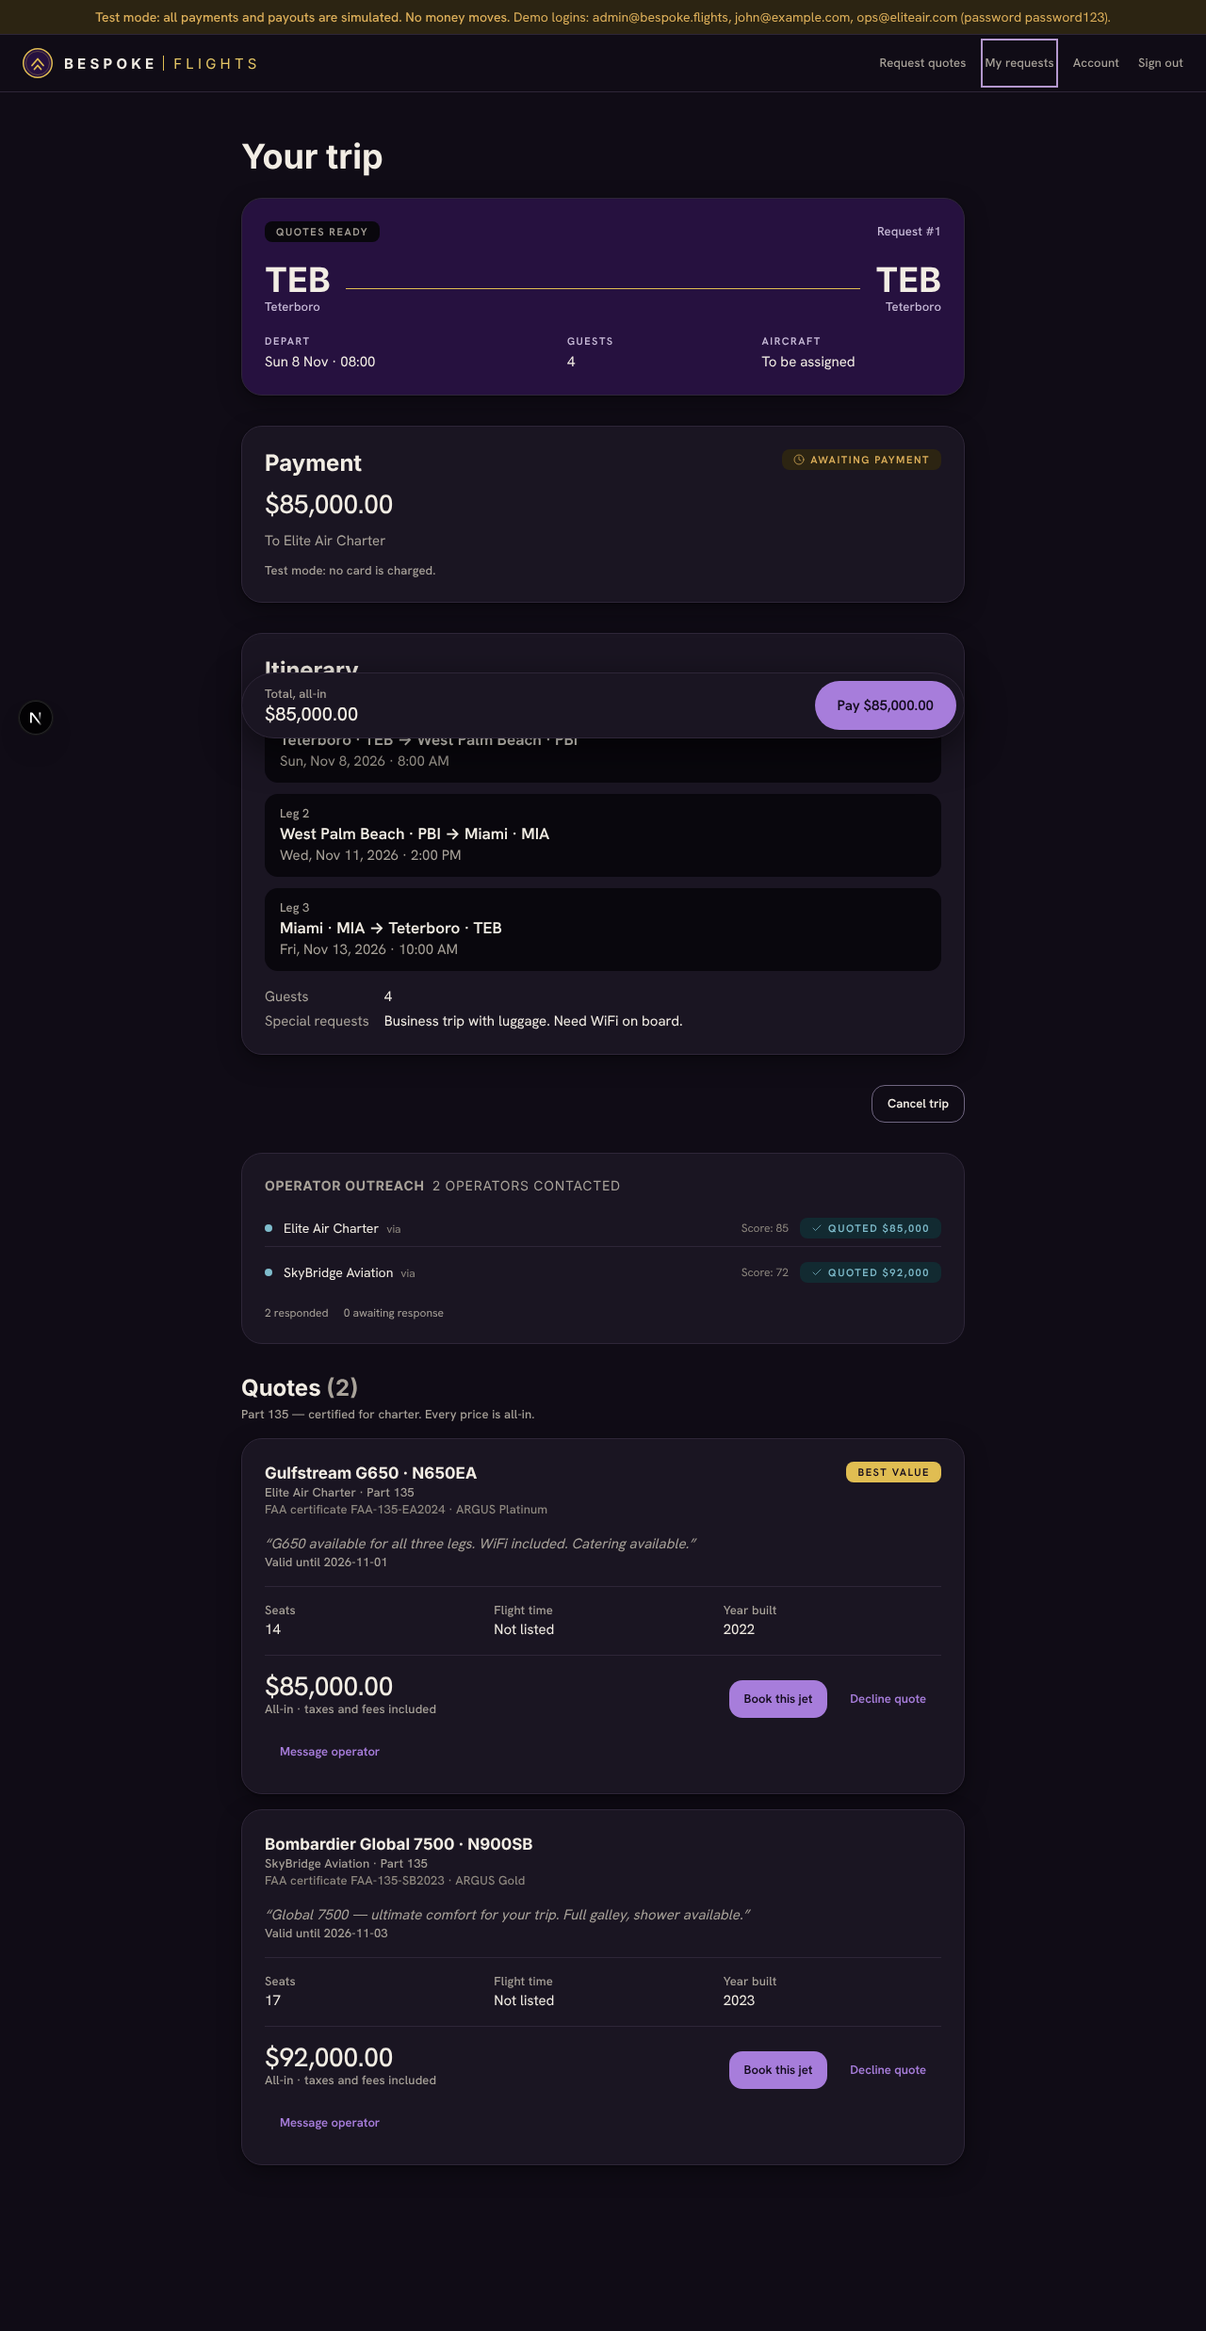
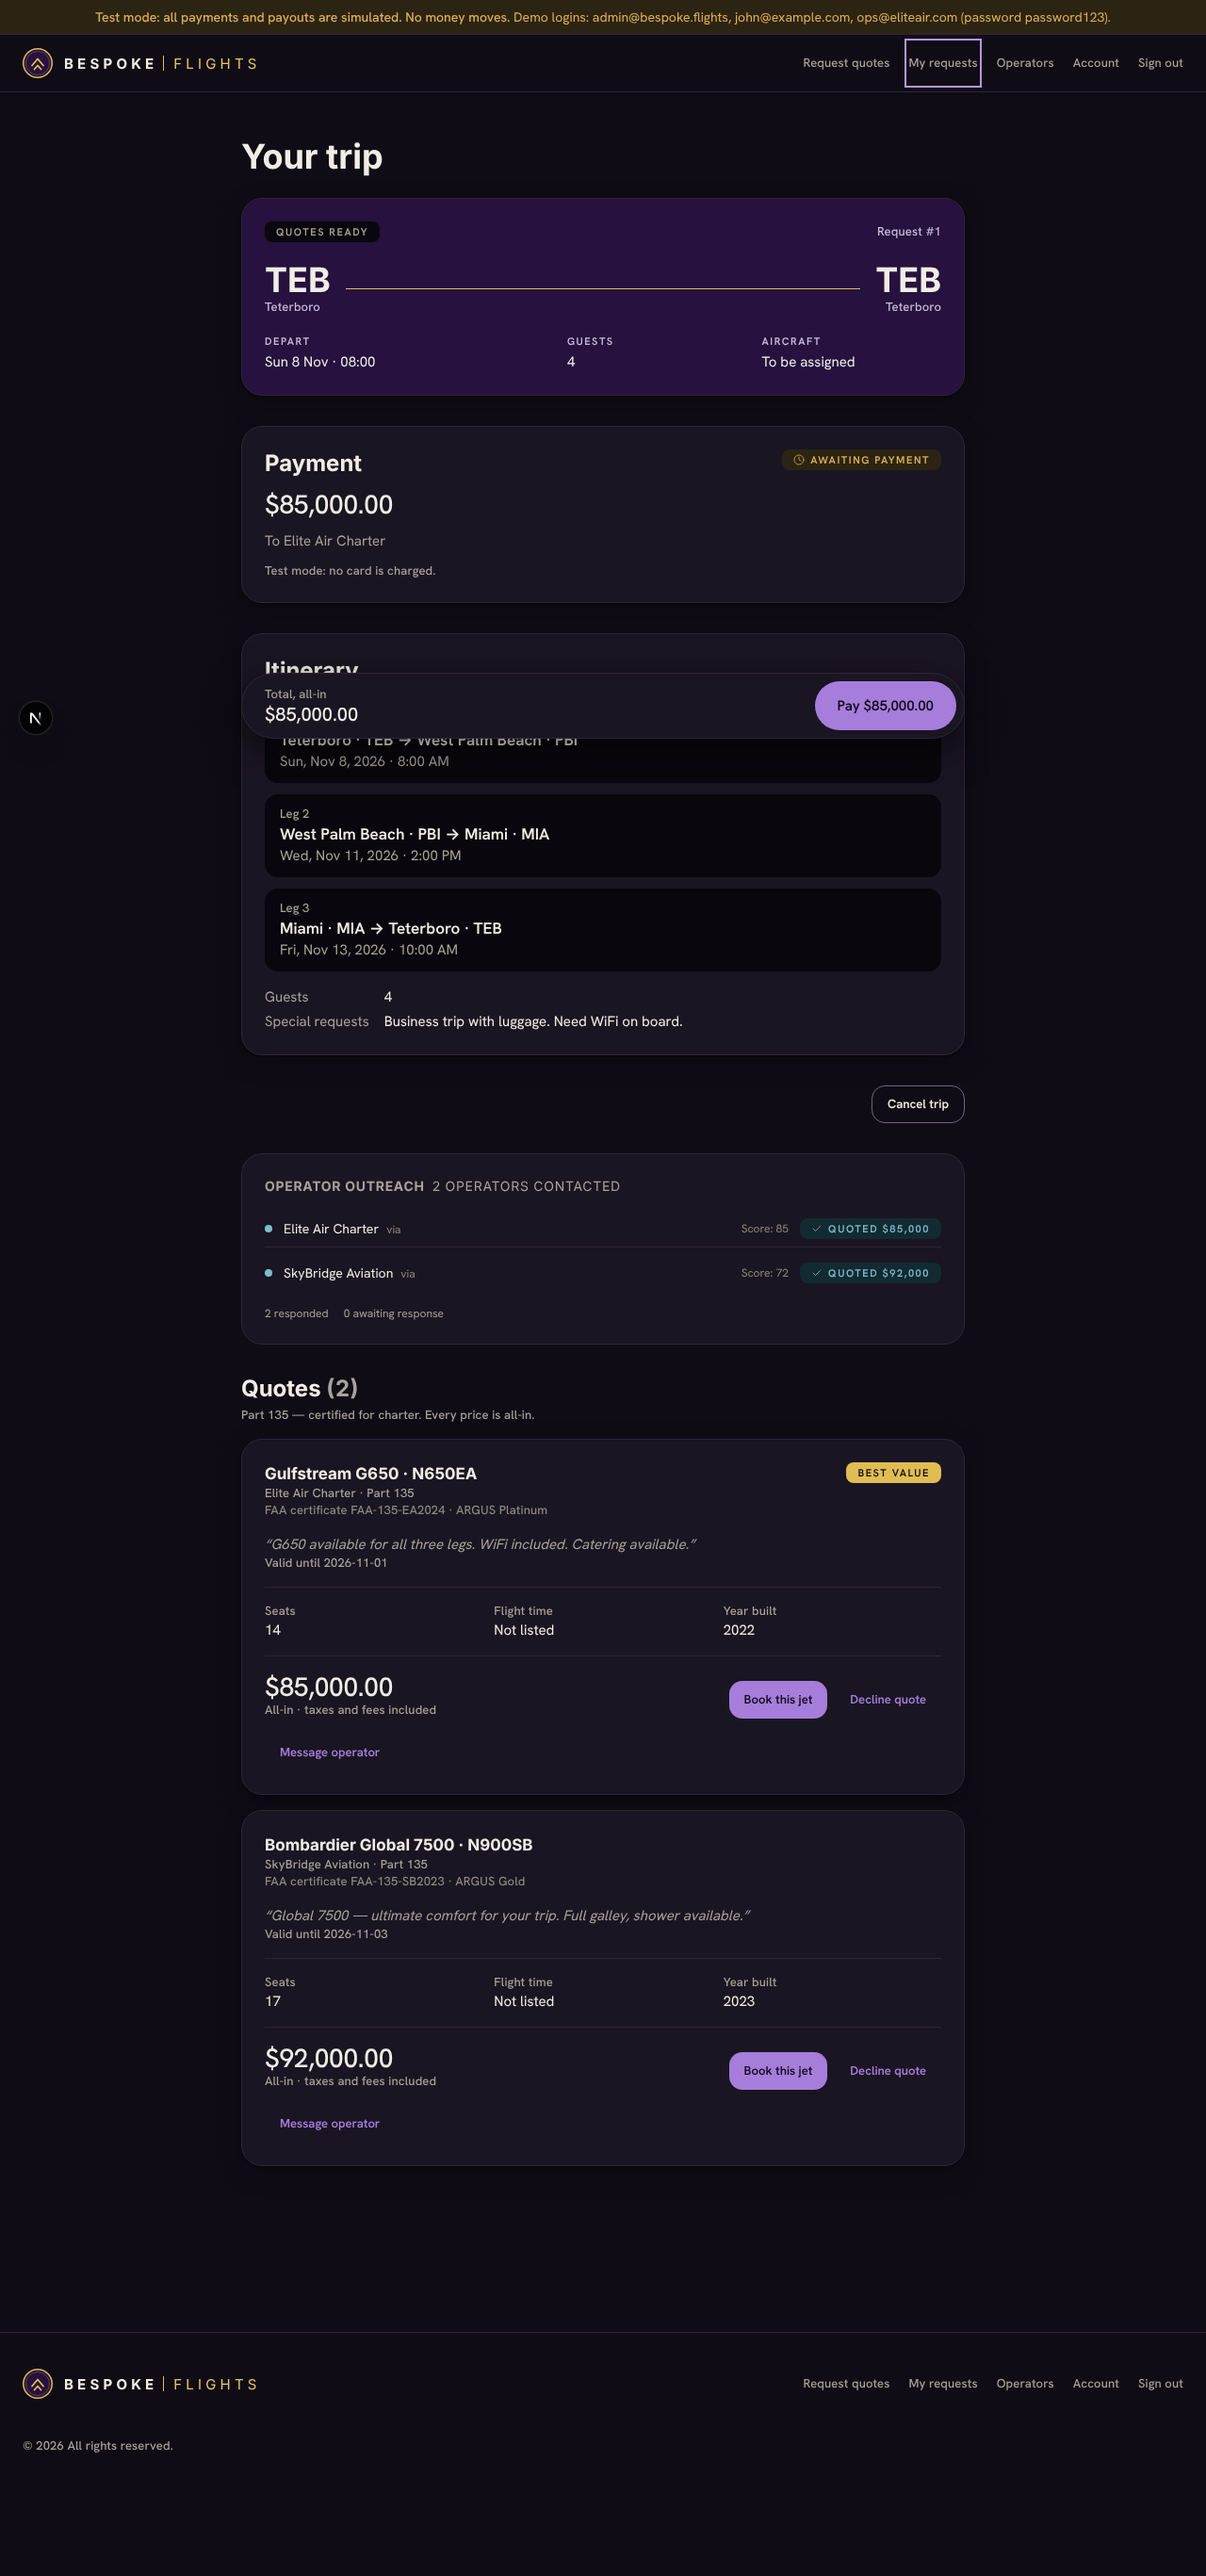
Operators in the nav, nav repeated in a site-wide footer, For operators section removed
- SiteNav is shared by the header and a new Footer (logo, same links,
  copyright) on the home page and every app layout. Distinct landmark
  labels (Main, Footer) and ids (main-nav, footer-nav).
- Guests and travelers get an Operators link to operator sign-up; the
  For operators section on the home page is gone.
- The footer keeps clear of the fixed payment bar on the trip page.

Claude-Session: https://claude.ai/code/session_01NBnVCVm2h7hekYMdk9f3C3

diff --git a/src/components/layout/header.tsx b/src/components/layout/header.tsx
@@ -5,17 +5,24 @@ import { useRouter } from 'next/navigation';
 import { ButtonLink } from '@/components/ui/button';
 import { Logo } from '@/components/ui/logo';
 
+type NavUser = { name: string; role: string } | null | undefined;
+
 const navLink =
   'inline-flex min-h-11 items-center text-label text-ink-muted transition-colors duration-200 ease-out hover:text-ink';
+
+/** Where operators learn about the platform and sign up. */
+const OPERATORS_LINK = { href: '/register?role=operator', label: 'Operators' };
 
 const links = {
   guest: [
     { href: '/book', label: 'Request quotes' },
+    OPERATORS_LINK,
     { href: '/login', label: 'Sign in' },
   ],
   customer: [
     { href: '/book', label: 'Request quotes' },
     { href: '/requests', label: 'My requests' },
+    OPERATORS_LINK,
   ],
   operator: [
     { href: '/operator/board', label: 'Board' },
@@ -36,7 +43,8 @@ const links = {
   ],
 } as const;
 
-export function Header({ user }: { user?: { name: string; role: string } | null }) {
+/** The site navigation. Rendered in the header and repeated in the footer. */
+export function SiteNav({ user, id, label }: { user: NavUser; id: string; label: string }) {
   const router = useRouter();
 
   const handleLogout = async () => {
@@ -48,25 +56,48 @@ export function Header({ user }: { user?: { name: string; role: string } | null 
   const roleLinks = user ? (links[user.role as keyof typeof links] ?? []) : links.guest;
 
   return (
+    <nav id={id} aria-label={label} className="flex flex-wrap items-center gap-x-5">
+      {roleLinks.map(link => (
+        <Link key={link.href} href={link.href} className={navLink}>{link.label}</Link>
+      ))}
+      {user ? (
+        <>
+          <Link href="/account" className={navLink}>Account</Link>
+          <button type="button" onClick={handleLogout} className={`${navLink} cursor-pointer`}>Sign out</button>
+        </>
+      ) : (
+        <ButtonLink href="/register" size="sm">Create account</ButtonLink>
+      )}
+    </nav>
+  );
+}
+
+export function Header({ user }: { user?: NavUser }) {
+  return (
     <header id="site-header" className="border-b border-hairline bg-surface print:hidden">
       <div id="site-header-inner" className="mx-auto flex max-w-7xl flex-wrap items-center justify-between gap-x-6 px-4 py-2 sm:px-6">
         <Link id="site-logo" href="/" className="inline-flex min-h-11 items-center">
           <Logo />
         </Link>
-        <nav id="main-nav" aria-label="Main" className="flex flex-wrap items-center gap-x-5">
-          {roleLinks.map(link => (
-            <Link key={link.href} href={link.href} className={navLink}>{link.label}</Link>
-          ))}
-          {user ? (
-            <>
-              <Link href="/account" className={navLink}>Account</Link>
-              <button type="button" onClick={handleLogout} className={`${navLink} cursor-pointer`}>Sign out</button>
-            </>
-          ) : (
-            <ButtonLink href="/register" size="sm">Create account</ButtonLink>
-          )}
-        </nav>
+        <SiteNav user={user} id="main-nav" label="Main" />
       </div>
     </header>
+  );
+}
+
+/** Footer: logo, the same navigation as the header, and the copyright line. */
+export function Footer({ user }: { user?: NavUser }) {
+  return (
+    <footer id="site-footer" className="mt-auto border-t border-hairline bg-surface print:hidden">
+      <div className="mx-auto flex max-w-7xl flex-wrap items-center justify-between gap-x-6 gap-y-4 px-4 py-8 sm:px-6">
+        <Link id="footer-logo" href="/" className="inline-flex min-h-11 items-center">
+          <Logo />
+        </Link>
+        <SiteNav user={user} id="footer-nav" label="Footer" />
+      </div>
+      <div className="mx-auto max-w-7xl px-4 pb-8 sm:px-6">
+        <span className="text-label text-ink-muted">&copy; {new Date().getFullYear()} All rights reserved.</span>
+      </div>
+    </footer>
   );
 }

diff --git a/src/app/page.tsx b/src/app/page.tsx
@@ -1,18 +1,9 @@
 import { cookies } from 'next/headers';
-import { Header } from '@/components/layout/header';
+import { Footer, Header } from '@/components/layout/header';
 import { MultiLegForm } from '@/components/booking/multi-leg-form';
-import { ButtonLink } from '@/components/ui/button';
 import { getSession } from '@/lib/auth';
 import { getDb } from '@/lib/db';
 import { DRAFT_COOKIE, parseDraft } from '@/lib/bookings/draft';
-import { Logo } from '@/components/ui/logo';
-
-const operatorPoints = [
-  'See booking demand as it arrives',
-  'Quote with your fleet details',
-  'Track which quotes are accepted',
-  'Share booked trips with your team',
-];
 
 export default async function HomePage() {
   const session = await getSession();
@@ -41,29 +32,9 @@ export default async function HomePage() {
         <section id="plan-trip" aria-label="Plan your trip" className="mx-auto max-w-2xl px-4 pt-8 pb-[var(--space-7)] sm:px-6">
           <MultiLegForm initialDraft={draft} viewerRole={session?.role ?? null} />
         </section>
-
-        {/* For operators */}
-        <section id="for-operators" className="border-t border-hairline bg-surface-sunken">
-          <div className="mx-auto max-w-3xl px-4 py-[var(--space-7)] sm:px-6">
-            <p className="text-overline text-ink-muted mb-2">For operators</p>
-            <h2 className="text-display text-ink">Fill empty legs. Grow your business.</h2>
-            <p className="mt-4 max-w-xl text-body text-ink-muted">
-              Access a stream of qualified charter requests with passenger counts, routes and dates, then quote to win new clients. There are no listing fees.
-            </p>
-            <ul className="mt-6 grid gap-2 text-body text-ink">
-              {operatorPoints.map(point => <li key={point}>{point}</li>)}
-            </ul>
-            <ButtonLink href="/register?role=operator" variant="secondary" className="mt-8">Register as an operator</ButtonLink>
-          </div>
-        </section>
       </main>
 
-      <footer id="site-footer" className="border-t border-hairline py-8">
-        <div className="mx-auto flex max-w-3xl items-center justify-between gap-4 px-4 sm:px-6">
-          <Logo />
-          <span className="text-label text-ink-muted">&copy; {new Date().getFullYear()} All rights reserved.</span>
-        </div>
-      </footer>
+      <Footer user={user} />
     </>
   );
 }

diff --git a/src/components/ui/action-bar.tsx b/src/components/ui/action-bar.tsx
@@ -15,7 +15,7 @@ export function ActionBar({
   children: ReactNode;
 }) {
   return (
-    <div className="pointer-events-none fixed inset-x-0 bottom-[calc(var(--space-4)+env(safe-area-inset-bottom))] z-40 px-4 print:hidden">
+    <div data-action-bar className="pointer-events-none fixed inset-x-0 bottom-[calc(var(--space-4)+env(safe-area-inset-bottom))] z-40 px-4 print:hidden">
       <div className="pointer-events-auto mx-auto flex max-w-3xl items-center justify-between gap-4 rounded-pill border border-hairline bg-surface-raised py-2 pl-6 pr-2 shadow-float">
         <div className="min-w-0">
           <p className="text-label text-ink-muted">{label}</p>

diff --git a/src/app/(admin)/layout.tsx b/src/app/(admin)/layout.tsx
@@ -1,5 +1,5 @@
 import { redirect } from 'next/navigation';
-import { Header } from '@/components/layout/header';
+import { Footer, Header } from '@/components/layout/header';
 import { getSession } from '@/lib/auth';
 import { getDb } from '@/lib/db';
 
@@ -17,6 +17,7 @@ export default async function AdminLayout({ children }: { children: React.ReactN
       <main className="flex-1 mx-auto max-w-7xl w-full px-4 sm:px-6 pt-12 pb-16">
         {children}
       </main>
+      <Footer user={user} />
     </>
   );
 }

diff --git a/src/app/(customer)/layout.tsx b/src/app/(customer)/layout.tsx
@@ -1,5 +1,5 @@
 import { redirect } from 'next/navigation';
-import { Header } from '@/components/layout/header';
+import { Footer, Header } from '@/components/layout/header';
 import { getSession } from '@/lib/auth';
 import { getDb } from '@/lib/db';
 
@@ -16,6 +16,7 @@ export default async function CustomerLayout({ children }: { children: React.Rea
       <main className="flex-1 mx-auto max-w-7xl w-full px-4 sm:px-6 pt-12 pb-16">
         {children}
       </main>
+      <Footer user={user} />
     </>
   );
 }

diff --git a/src/app/(operator)/layout.tsx b/src/app/(operator)/layout.tsx
@@ -1,5 +1,5 @@
 import { redirect } from 'next/navigation';
-import { Header } from '@/components/layout/header';
+import { Footer, Header } from '@/components/layout/header';
 import { getSession } from '@/lib/auth';
 import { getDb } from '@/lib/db';
 
@@ -17,6 +17,7 @@ export default async function OperatorLayout({ children }: { children: React.Rea
       <main className="flex-1 mx-auto max-w-7xl w-full px-4 sm:px-6 pt-12 pb-16">
         {children}
       </main>
+      <Footer user={user} />
     </>
   );
 }

diff --git a/src/app/(booking)/layout.tsx b/src/app/(booking)/layout.tsx
@@ -1,4 +1,4 @@
-import { Header } from '@/components/layout/header';
+import { Footer, Header } from '@/components/layout/header';
 import { getSession } from '@/lib/auth';
 import { getDb } from '@/lib/db';
 
@@ -15,6 +15,7 @@ export default async function BookingLayout({ children }: { children: React.Reac
       <main id="main-content" className="flex-1 mx-auto max-w-7xl w-full px-4 sm:px-6 pt-12 pb-16">
         {children}
       </main>
+      <Footer user={user} />
     </>
   );
 }

diff --git a/src/app/globals.css b/src/app/globals.css
@@ -253,6 +253,9 @@ h1, h2, h3, h4, h5, h6 {
 }
 .field-cell :is(input, textarea):focus-visible { outline: none; }
 
+/* While the fixed action bar is on screen, keep the footer's last line above it. */
+body:has([data-action-bar]) #site-footer { padding-bottom: calc(96px + env(safe-area-inset-bottom)); }
+
 /* Focus ring on every interactive element. */
 :focus-visible {
   outline: 2px solid var(--focus);
